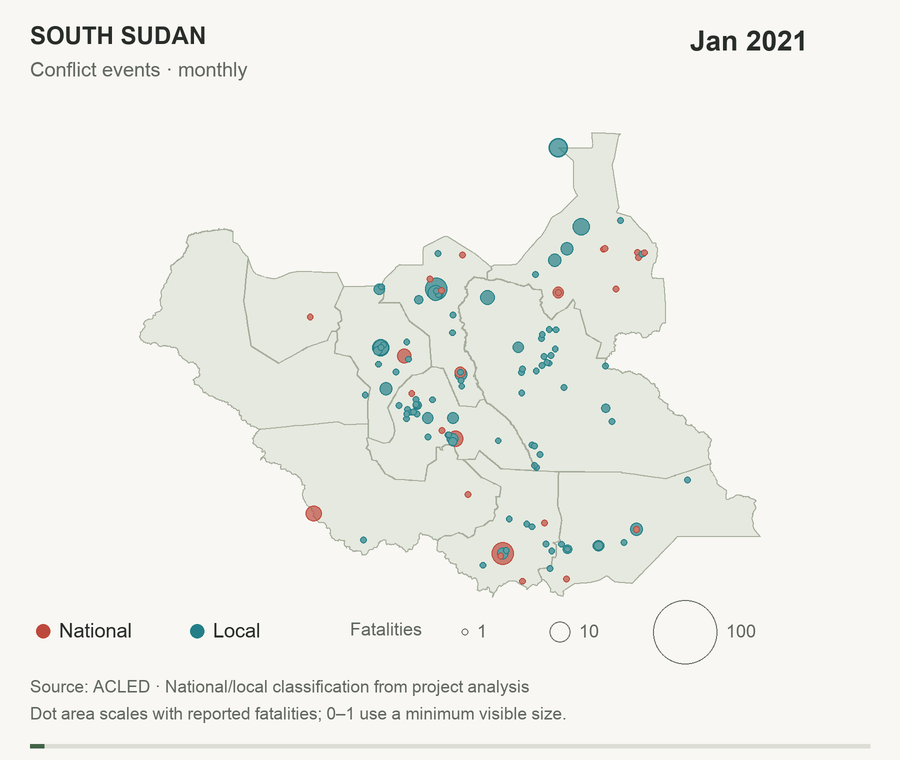
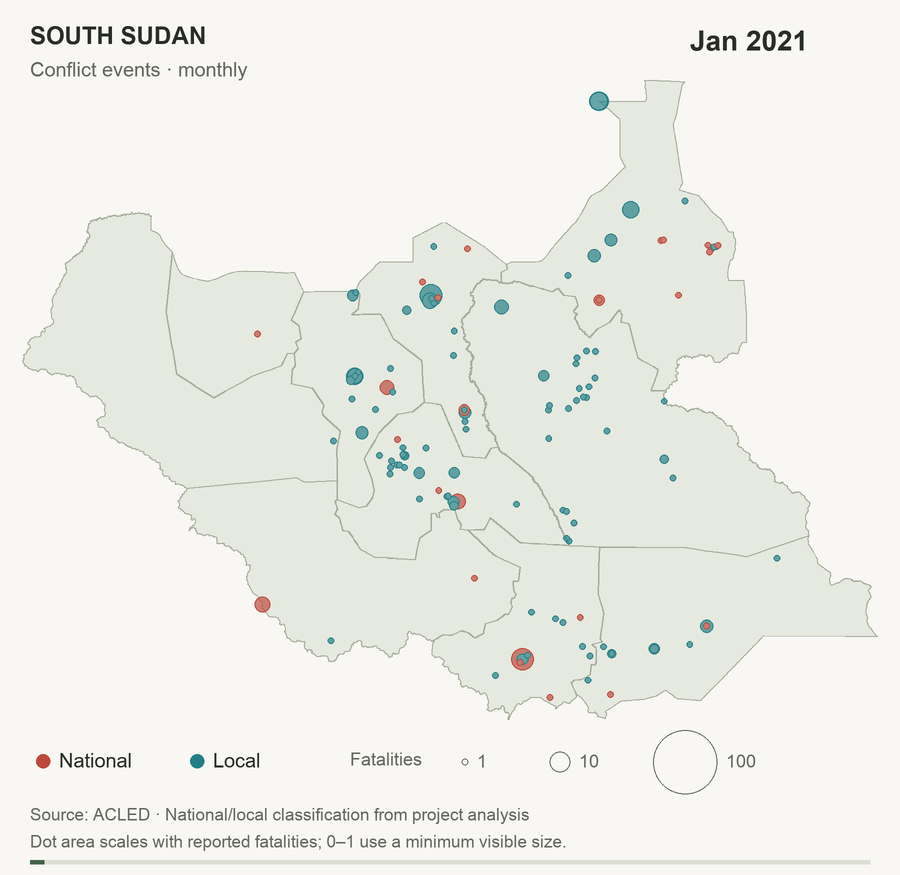
Enlarge South Sudan animation map and tighten margins

diff --git a/index.html b/index.html
@@ -22,7 +22,7 @@
 <section id="work" class="section"><div class="section-heading"><h2>Selected work</h2><span class="aside">Research into practice</span></div><p class="section-intro">A few of the questions, tools, and analyses I've worked on.</p>
 <div class="projects">
 <article class="project"><div class="project-meta"><span>01 / GEOSPATIAL ANALYTICS</span><span>2026</span></div><h3>Putting evidence on the map</h3><p>Building geospatial data hubs for World Bank country teams in Ethiopia and Papua New Guinea, bringing conflict, infrastructure, socioeconomic, and project data together for subnational risk monitoring, portfolio mapping, country risk and resilience assessments, and Papua New Guinea's National Prevention Strategy.</p><p class="project-credit">World Bank · Data Science Consultant</p><figure class="project-visual"><a class="image-link" href="assets/work/ethiopia-market-access.png" target="_blank" rel="noopener" aria-label="Open the Ethiopia market access map at full size"><img src="assets/work/ethiopia-market-access.png" alt="Ethiopia market access map with blue dots sized by market catchment population and a red gradient showing analytical travel time to the nearest market" width="895" height="708" loading="lazy"></a><figcaption>Blue dots represent markets, sized by catchment population. The red gradient shows the analytical travel-time layer to the nearest market.</figcaption></figure></article>
-<article class="project"><div class="project-meta"><span>02 / CONFLICT & PEACE</span><span>2026</span></div><h3>Understanding pathways to peace</h3><p>Quantitative research on subnational conflict and peace trends in South Sudan, including election and conflict scenarios and geolocated project data in the conflict risk monitor. The analysis supports peacebuilding programs and has been presented to IOM, the UN, and the Fragility Forum.</p><p class="project-credit">UN Peacebuilding Support Office · World Bank</p><figure class="project-visual"><a class="image-link" href="assets/work/south-sudan-conflict-events.gif" target="_blank" rel="noopener" aria-label="Open the animated South Sudan conflict event map at full size"><picture><source media="(prefers-reduced-motion: reduce)" srcset="assets/work/south-sudan-conflict-events-poster.png"><img src="assets/work/south-sudan-conflict-events.gif" alt="Animated monthly map of South Sudan conflict events, 2021–2025. Red dots indicate national violence and teal dots indicate local violence; dot area scales with reported fatalities." width="900" height="760" loading="lazy"></picture></a><figcaption>Monthly conflict events, 2021–2025 · Color distinguishes national and local violence; dot size shows reported fatalities. Source: ACLED.</figcaption></figure></article>
+<article class="project"><div class="project-meta"><span>02 / CONFLICT & PEACE</span><span>2026</span></div><h3>Understanding pathways to peace</h3><p>Quantitative research on subnational conflict and peace trends in South Sudan, including election and conflict scenarios and geolocated project data in the conflict risk monitor. The analysis supports peacebuilding programs and has been presented to IOM, the UN, and the Fragility Forum.</p><p class="project-credit">UN Peacebuilding Support Office · World Bank</p><figure class="project-visual"><a class="image-link" href="assets/work/south-sudan-conflict-events.gif" target="_blank" rel="noopener" aria-label="Open the animated South Sudan conflict event map at full size"><picture><source media="(prefers-reduced-motion: reduce)" srcset="assets/work/south-sudan-conflict-events-poster.png"><img src="assets/work/south-sudan-conflict-events.gif" alt="Animated monthly map of South Sudan conflict events, 2021–2025. Red dots indicate national violence and teal dots indicate local violence; dot area scales with reported fatalities." width="900" height="875" loading="lazy"></picture></a><figcaption>Monthly conflict events, 2021–2025 · Color distinguishes national and local violence; dot size shows reported fatalities. Source: ACLED.</figcaption></figure></article>
 <article class="project"><div class="project-meta"><span>03 / MACHINE LEARNING</span><span>2024–26</span></div><h3>Forecasting conflict at a global scale</h3><p>Production machine-learning workflows generating monthly conflict forecasts for approximately 50,000 districts worldwide, used by the UK and German foreign ministries. My work covered data sourcing, feature engineering, model training, evaluation, and documentation, including NLP and geoparsing of more than 10 million news articles.</p><p class="project-credit">Conflict Forecast · EconAI</p><figure class="project-visual"><a class="image-link" href="https://conflictforecast.org/" target="_blank" rel="noopener" aria-label="Visit the Conflict Forecast platform"><img src="assets/work/conflict-forecast-spatial-buffer.png" alt="Green spatial buffer used to estimate spatial spillovers in conflict forecasts" width="1919" height="1906" loading="lazy"></a><figcaption><span>Green buffer used to estimate spatial spillovers in forecasts</span><a class="visual-link" href="https://conflictforecast.org/" target="_blank" rel="noopener">Visit Conflict Forecast <span aria-hidden="true">↗</span></a></figcaption></figure></article>
 <article class="project"><div class="project-meta"><span>04 / CLIMATE & MIGRATION</span><span>2025–26</span></div><h3>How a changing climate moves us</h3><p>Modeling migration across the United States and Spain to understand how temperature shocks and extreme weather interact with housing, density, and migration networks. I combined long-run climate, migration, demographic, and geospatial data with econometrics and spatial analysis; the work informed a policy memo for city leaders.</p><p class="project-credit">German Marshall Fund · With EconAI researchers</p><figure class="project-visual"><a class="image-link" href="assets/work/spain-climate-migration-regions.png" target="_blank" rel="noopener" aria-label="Open the regional climate migration chart at full size"><img src="assets/work/spain-climate-migration-regions.png" alt="Estimated climate-induced population change across Spain's autonomous communities from 2000 to 2023" width="767" height="555" loading="lazy"></a><figcaption>Between-region change</figcaption></figure></article>
 <article class="project"><div class="project-meta"><span>05 / APPLIED ECONOMICS</span><span>2026</span></div><h3>Electricity, competitiveness, and growth</h3><p>Applied economic and energy analysis for the World Bank's Philippines country office, comparing electricity prices and their drivers across peer countries and contributing to <em>Philippines Powering Progress: Electricity, Competitiveness, and Growth Pathways</em>.</p><p class="project-credit">World Bank · Philippines</p><figure class="project-visual"><a class="image-link" href="https://documents.worldbank.org/en/publication/documents-reports/documentdetail/099080226035594069" target="_blank" rel="noopener" aria-label="Open the World Bank Philippines electricity report"><img src="assets/work/philippines-grid-congestion.png" alt="Chart showing frequent congestion on the Luzon–Visayas electricity interconnection throughout the day" width="691" height="394" loading="lazy"></a><figcaption><span>Luzon–Visayas grid congestion</span><a class="visual-link" href="https://documents.worldbank.org/en/publication/documents-reports/documentdetail/099080226035594069" target="_blank" rel="noopener">Read the World Bank report <span aria-hidden="true">↗</span></a></figcaption></figure></article>

diff --git a/scripts/build_south_sudan_animation.py b/scripts/build_south_sudan_animation.py
@@ -13,7 +13,7 @@ from PIL import Image, ImageDraw, ImageFont
 
 SOURCE = Path(sys.argv[1])
 OUT = Path(__file__).resolve().parents[1] / 'assets/work'
-W, H, SCALE = 900, 760, 2
+W, H, SCALE = 900, 875, 2
 BG, INK, MUTED = '#f8f7f3', '#292d29', '#62685f'
 COLORS = {'National': '#bd493c', 'Local': '#237f87'}
 VIOLENT = {'Battles', 'Explosions/Remote violence', 'Violence against civilians'}
@@ -39,11 +39,11 @@ xs = [p[0] for ring in rings for p in ring]
 ys = [p[1] for ring in rings for p in ring]
 # Equirectangular view corrected for longitude distance at South Sudan's mid-latitude.
 coslat = math.cos(math.radians((min(ys)+max(ys))/2))
-scale = min(800/((max(xs)-min(xs))*coslat), 465/(max(ys)-min(ys)))
+scale = min(860/((max(xs)-min(xs))*coslat), 640/(max(ys)-min(ys)))
 center_x, center_y = (min(xs)+max(xs))/2, (min(ys)+max(ys))/2
 
 def point(x,y):
-    return ((450+(x-center_x)*coslat*scale)*SCALE, (365-(y-center_y)*scale)*SCALE)
+    return ((450+(x-center_x)*coslat*scale)*SCALE, (400-(y-center_y)*scale)*SCALE)
 
 def font(size, bold=False):
     path = Path('/System/Library/Fonts/Supplemental') / ('Arial Bold.ttf' if bold else 'Arial.ttf')
@@ -77,18 +77,18 @@ for year in range(2021,2026):
             od.ellipse((x-r,y-r,x+r,y+r),fill=(*rgb,175),outline=(*rgb,255),width=2)
         im=Image.alpha_composite(im.convert('RGBA'),overlay).convert('RGB'); d=ImageDraw.Draw(im)
         for label,x in [('National',36),('Local',190)]:
-            d.ellipse(((x)*SCALE,624*SCALE,(x+14)*SCALE,638*SCALE),fill=COLORS[label])
-            text(d,(x+23,619),label,20)
-        text(d,(350,619),'Fatalities',18,fill=MUTED)
+            d.ellipse(((x)*SCALE,754*SCALE,(x+14)*SCALE,768*SCALE),fill=COLORS[label])
+            text(d,(x+23,749),label,20)
+        text(d,(350,749),'Fatalities',18,fill=MUTED)
         for val,x in [(1,465),(10,560),(100,685)]:
-            r=radius(val); cy=632
+            r=radius(val); cy=762
             d.ellipse(((x-r)*SCALE,(cy-r)*SCALE,(x+r)*SCALE,(cy+r)*SCALE),outline=MUTED,width=2)
-            text(d,(x+r+9,621),str(val),18,fill=MUTED)
-        text(d,(30,677),'Source: ACLED · National/local classification from project analysis',17,fill=MUTED)
-        text(d,(30,704),'Dot area scales with reported fatalities; 0–1 use a minimum visible size.',17,fill=MUTED)
-        d.rectangle((30*SCALE,744*SCALE,870*SCALE,748*SCALE),fill='#dcded5')
+            text(d,(x+r+9,751),str(val),18,fill=MUTED)
+        text(d,(30,805),'Source: ACLED · National/local classification from project analysis',17,fill=MUTED)
+        text(d,(30,832),'Dot area scales with reported fatalities; 0–1 use a minimum visible size.',17,fill=MUTED)
+        d.rectangle((30*SCALE,860*SCALE,870*SCALE,864*SCALE),fill='#dcded5')
         i=len(frames)
-        d.rectangle((30*SCALE,744*SCALE,(30+840*(i+1)/60)*SCALE,748*SCALE),fill='#416347')
+        d.rectangle((30*SCALE,860*SCALE,(30+840*(i+1)/60)*SCALE,864*SCALE),fill='#416347')
         frames.append(im.resize((W,H),Image.Resampling.LANCZOS))
 frames[0].save(OUT/'south-sudan-conflict-events-poster.png')
 # Shared palette prevents flickering across frames.
